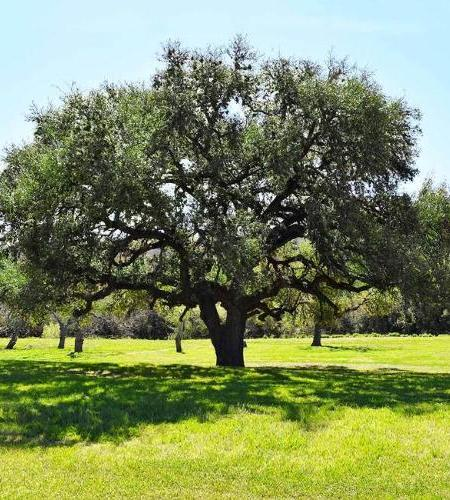
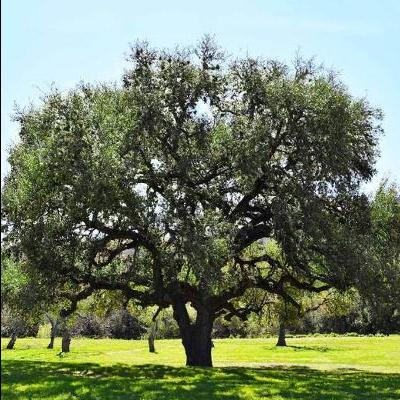
added horizontal seam carving

diff --git a/Image_Compression_by_Seam_carving/image_compression_by_seam_carving.py b/Image_Compression_by_Seam_carving/image_compression_by_seam_carving.py
@@ -18,7 +18,7 @@ def calculate_energy(img_array):
         energy_map += np.hypot(sobel_x, sobel_y)  # Combine gradients for energy map
     return energy_map
 
-def find_optimal_seam(array):
+def vertical_seam(array):
     # Initialize a DP array to store the minimum energy cost to reach each pixel
     i, j = array.shape
     dp = np.zeros((i, j))
@@ -28,26 +28,76 @@ def find_optimal_seam(array):
     for row in range(i-2, -1, -1):
         for col in range(j):
             # Calculate minimum energy for each possible move
-            min_prev = dp[row + 1, col]
+            min_prev = dp[row + 1, col] #direct up will always be possible
             if col > 0:
-                min_prev = min(min_prev, dp[row + 1, col - 1])
-            if col < j - 1:
-                min_prev = min(min_prev, dp[row + 1, col + 1])
-            dp[row, col] = array[row, col] + min_prev
+                min_prev = min(min_prev, dp[row + 1, col - 1]) #if not at left edge then check for left-down case vs current min
+            if col < j - 1:    
+                min_prev = min(min_prev, dp[row + 1, col + 1]) #if not at right edge then check for right-down case vs current min
+           #add the min path we found to the distruction value at the current cell and add it to the current dp matrix cell (total destruction up to this point)
+            dp[row, col] = array[row, col] + min_prev 
     # Backtrack to find the optimal seam path
     seam_cells = []
-    col = np.argmin(dp[0])  # Starting point with minimum energy in the top row
-    seam_cells.append((0, col))
+    col = np.argmin(dp[0][:])  # Starting point with minimum energy in the top row
+    seam_cells.append((0, col))                
     # For each row, track the path by moving to the minimum energy column in the next row
-    for row in range(1, i):
-        if col > 0 and dp[row, col - 1] <= dp[row, col] and (col == j - 1 or dp[row, col - 1] <= dp[row, col + 1]):
-            col -= 1
-        elif col < j - 1 and dp[row, col + 1] <= dp[row, col] and dp[row, col + 1] <= dp[row, col - 1]:
-            col += 1
-        seam_cells.append((row, col))
+    for row in range(1,i):
+        if col == j-1:
+            if dp[row,col-1] < dp[row,col]:
+                col-=1
+        elif col == 0:
+            if dp[row,col+1] < dp[row,col]:
+                col+=1
+        elif col > 0 and col < j-1:
+            if dp[row,col-1] < dp[row,col] and dp[row,col-1] < dp[row,col+1]:
+                col-=1
+            elif dp[row,col+1] < dp[row,col] and dp[row,col+1] < dp[row,col-1]:
+                col+=1
+        seam_cells.append([row,col])
     return seam_cells
 
-def remove_seam(img_array, seam_cells):
+def horizontal_seam(array):
+    i, j = array.shape
+    dp = np.zeros((i,j))
+    # set left side of dp matrix to energy map's left side values (j = 0)
+    dp[ : , 0] = array[ : , 0]
+    # Now fill in the DP matrix from left to right
+    for column in range(1, j - 1):
+        #for each column (left to right, skipping previously filled in first), go through each row, top to bottom
+        for row in range(0, i-1):
+            #we can always go straight to the right so lets set min_prev to that first
+            min_prev = dp[row,column+1] 
+            #check if not at top of table (then we can go right-up)
+            if row > 0: 
+                min_prev = min(min_prev, dp[row-1,column+1])
+            #check if not at bottom of table (then we can go right-down)
+            if row < i - 1:
+                min_prev = min(min_prev, dp[row+1,column+1])
+            #now add the min prev to the distruction at the current pixel and put this in the curr cell of the dp matrix
+            #this is the total destruction up to this cell
+            dp[row,column] = array[row, column] + min_prev
+    #once the matrix is filled in, the ideal starting pixel will be the cell with the smallest value in the last column
+    start_row = np.argmin(dp[:][j-1])
+    #lets make an array to keep track of ideal seam's pixels to delete later
+    seam_cells = []
+    # put the optimal start_cell in the seam_cell array 
+    seam_cells.append([start_row, j-1])
+    #move from second to last column down to the first following ideal path from start pixel
+    for col in range(j-2,0,-1):
+        if row == 0:
+            if dp[row+1,col] < dp[row,col]:
+                row+=1
+        elif row==i-1:
+            if dp[row-1,col] < dp[row,col]:
+                row-=1
+        elif row > 0 and row < i-1:
+            if dp[row-1,col] < dp[row,col] and dp[row-1,col] < dp[row+1,col]:
+                row-=1
+            elif dp[row+1,col] < dp[row,col] and dp[row+1, col] < dp[row-1,col]:
+                row+=1
+        seam_cells.append([row,col])
+    return seam_cells
+
+def remove_vertical_seam(img_array, seam_cells):
     # Create a new array with one less column for the compressed image
     new_img_array = np.zeros((img_array.shape[0], img_array.shape[1] - 1, img_array.shape[2]), dtype=img_array.dtype)
     # For each row, remove the pixel in the seam
@@ -56,13 +106,27 @@ def remove_seam(img_array, seam_cells):
         new_img_array[row, col:] = img_array[row, col + 1:]  # Skip seam and copy the rest
     return new_img_array
 
+def remove_horizontal_seam(img_array, seam_cells):
+    # Create new array with one less row for the compressed image
+    new_img_array = np.zeros((img_array.shape[0] - 1, img_array.shape[1], img_array.shape[2]), dtype=img_array.dtype)
+    # for each column, remove the pixel in the seam
+    for row, col in seam_cells:
+        new_img_array[:row, col] = img_array[:row, col] #copy all pixels up to seam
+        new_img_array[row:, col] = img_array[row + 1:, col] #skip seam cell and copy the rest
+    return new_img_array
+
 def compression(num_reductions, img_path):
     # Convert image to array and apply seam carving for the specified number of reductions
     img_array = image_to_array(img_path)
     for i in range(num_reductions):
+        # remove vertical seam
         energy_map = calculate_energy(img_array)  # Generate energy map
-        seam = find_optimal_seam(energy_map)  # Find optimal seam based on energy map
-        img_array = remove_seam(img_array, seam)  # Remove the optimal seam
+        seam = vertical_seam(energy_map)  # Find optimal seam based on energy map
+        img_array = remove_vertical_seam(img_array, seam)  # Remove the optimal seam
+        # now remove horizontal seam
+        energy_map = calculate_energy(img_array)
+        seam = horizontal_seam(energy_map)
+        img_array = remove_horizontal_seam(img_array, seam)
         print(str(i+1) + "/" + str(num_reductions))
     # Save the compressed image after all seams are removed
     result_img = Image.fromarray(img_array)
@@ -70,4 +134,4 @@ def compression(num_reductions, img_path):
 
 
 
-compression(50, "test_image.jpg")
+compression(100, "test_image.jpg")
